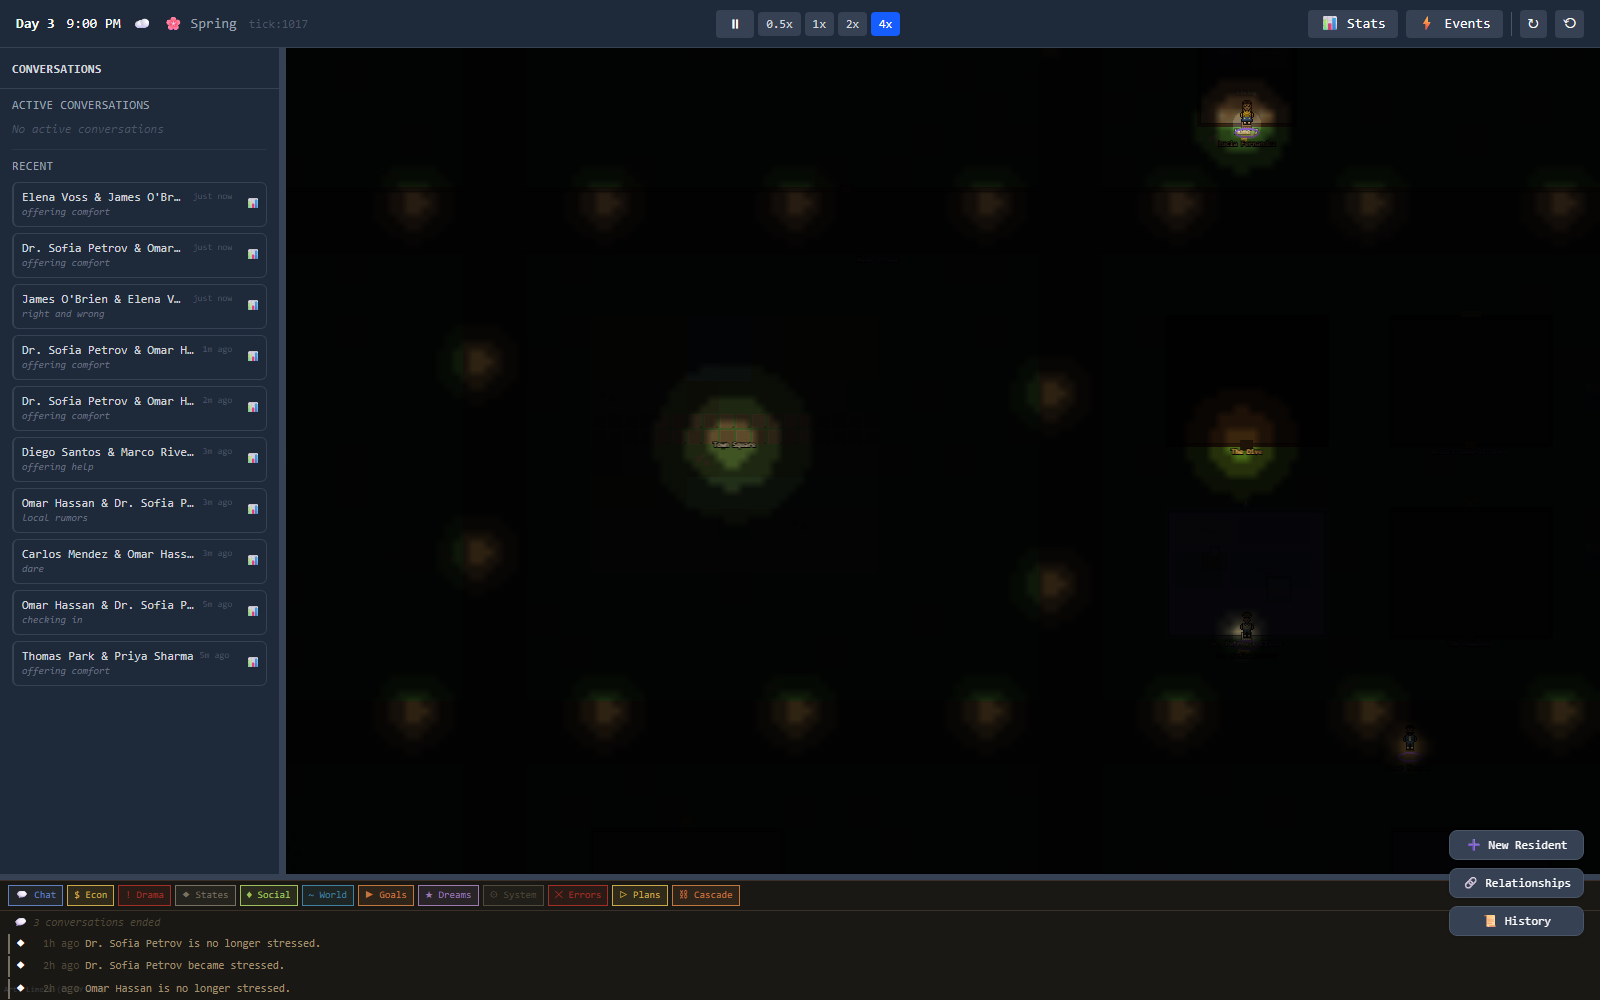
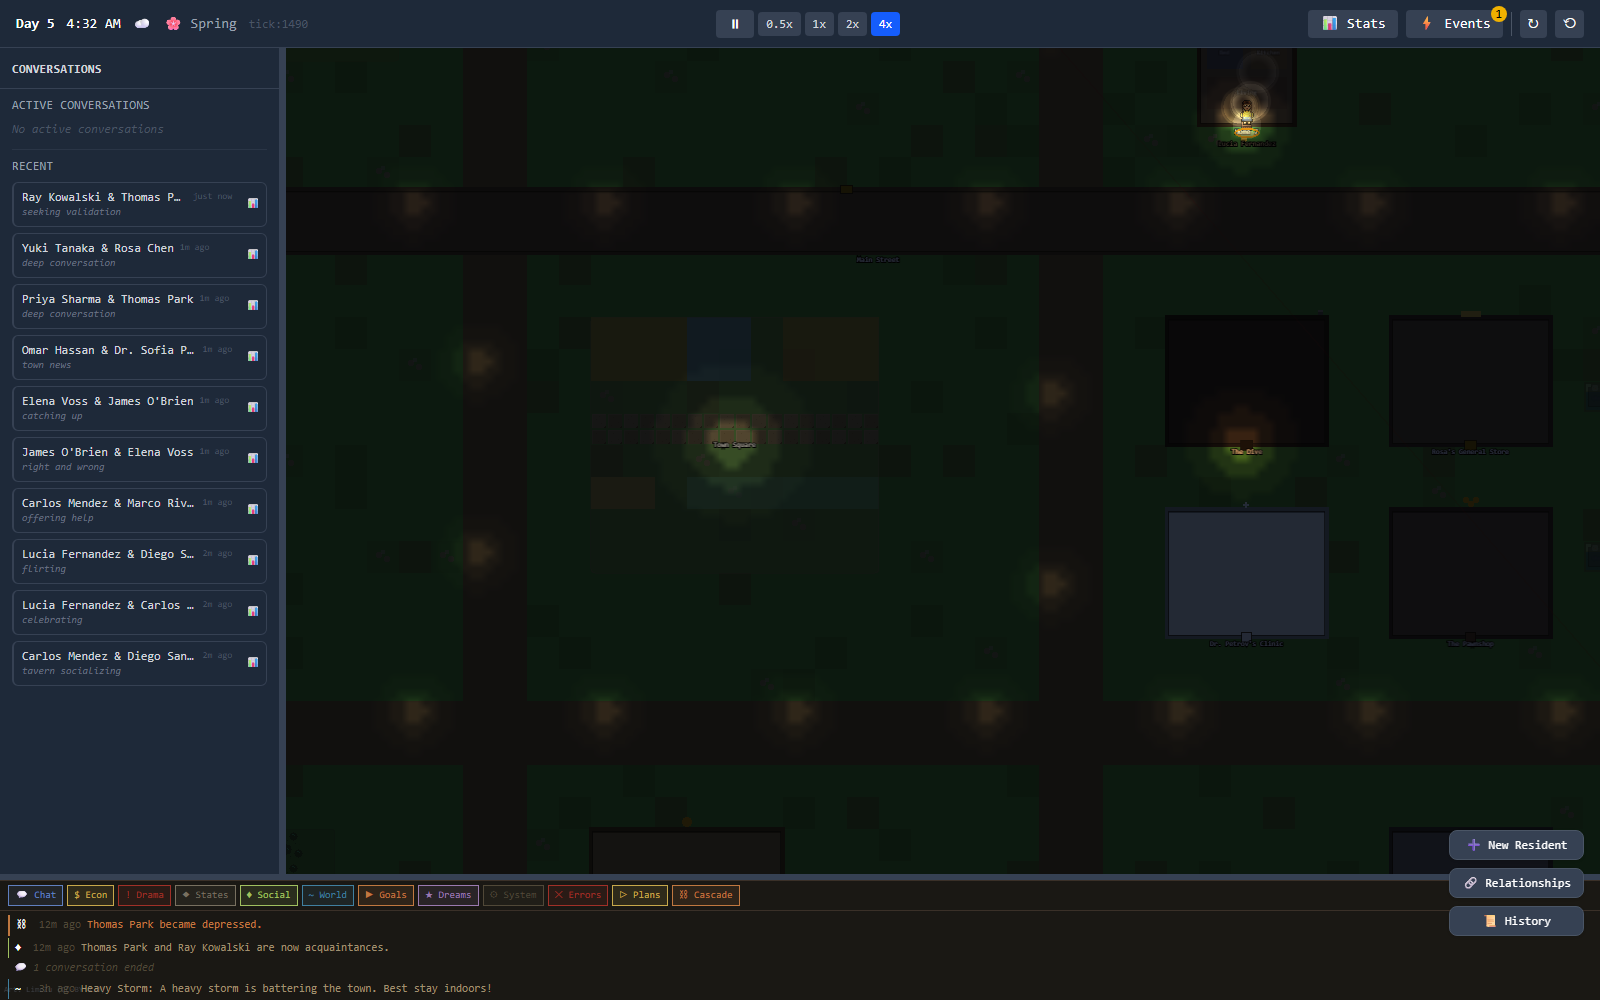
fix(lighting): night ambient floor + light falloff balance (polish round 1)
Night ambient (42,48,80)@0.15 crushed all geometry to black (2/3 fresh-eyes
agents ranked it top break). Raised to (100,110,150)@0.45, softened radial
ring alphas 0.9/0.5/0.2 -> 0.7/0.3/0.1 (banding was exposed), trimmed window
glow 0.55 -> 0.35. Verified via live night screenshot under storm conditions.

diff --git a/src/components/canvas/LightingSystem.ts b/src/components/canvas/LightingSystem.ts
@@ -39,7 +39,7 @@ const PHASE_AMBIENT: Record<string, AmbientProfile> = {
   morning:   { r: 255, g: 248, b: 240, brightness: 0.95 },
   afternoon: { r: 255, g: 250, b: 230, brightness: 1.0 },
   evening:   { r: 255, g: 160, b: 96,  brightness: 0.55 },
-  night:     { r: 42,  g: 48,  b: 80,  brightness: 0.15 },
+  night:     { r: 100, g: 110, b: 150, brightness: 0.45 },
 };
 
 const SEASON_TINT: Record<string, { r: number; g: number; b: number; mix: number }> = {
@@ -92,7 +92,7 @@ const OPEN_AREA_TYPES = new Set(['farm', 'park', 'town_square', 'mainstreet', 'a
 // Rendered as two small point lights offset left/right of the entry_point.
 const WINDOW_GLOW_COLOR = 0xFFD9A0;
 const WINDOW_GLOW_RADIUS = 14;
-const WINDOW_GLOW_INTENSITY = 0.55;
+const WINDOW_GLOW_INTENSITY = 0.35;
 const WINDOW_GLOW_FLICKER = 0.06;
 // Lateral offset from door center to each window light (px in world space)
 const WINDOW_OFFSET_X = 20;
@@ -565,11 +565,11 @@ export class LightingSystem {
 
       // Radial gradient approximation: 3 concentric circles with decreasing alpha
       // Core (inner 30%): full color
-      this.lightGfx.circle(lx, ly, lr * 0.3).fill({ color: fillColor, alpha: 0.9 });
+      this.lightGfx.circle(lx, ly, lr * 0.3).fill({ color: fillColor, alpha: 0.7 });
       // Mid (inner 60%): reduced
-      this.lightGfx.circle(lx, ly, lr * 0.6).fill({ color: fillColor, alpha: 0.5 });
+      this.lightGfx.circle(lx, ly, lr * 0.6).fill({ color: fillColor, alpha: 0.3 });
       // Outer (full radius): faint
-      this.lightGfx.circle(lx, ly, lr).fill({ color: fillColor, alpha: 0.2 });
+      this.lightGfx.circle(lx, ly, lr).fill({ color: fillColor, alpha: 0.1 });
     }
 
     // ── Render to texture ────────────────────────────────────────────
